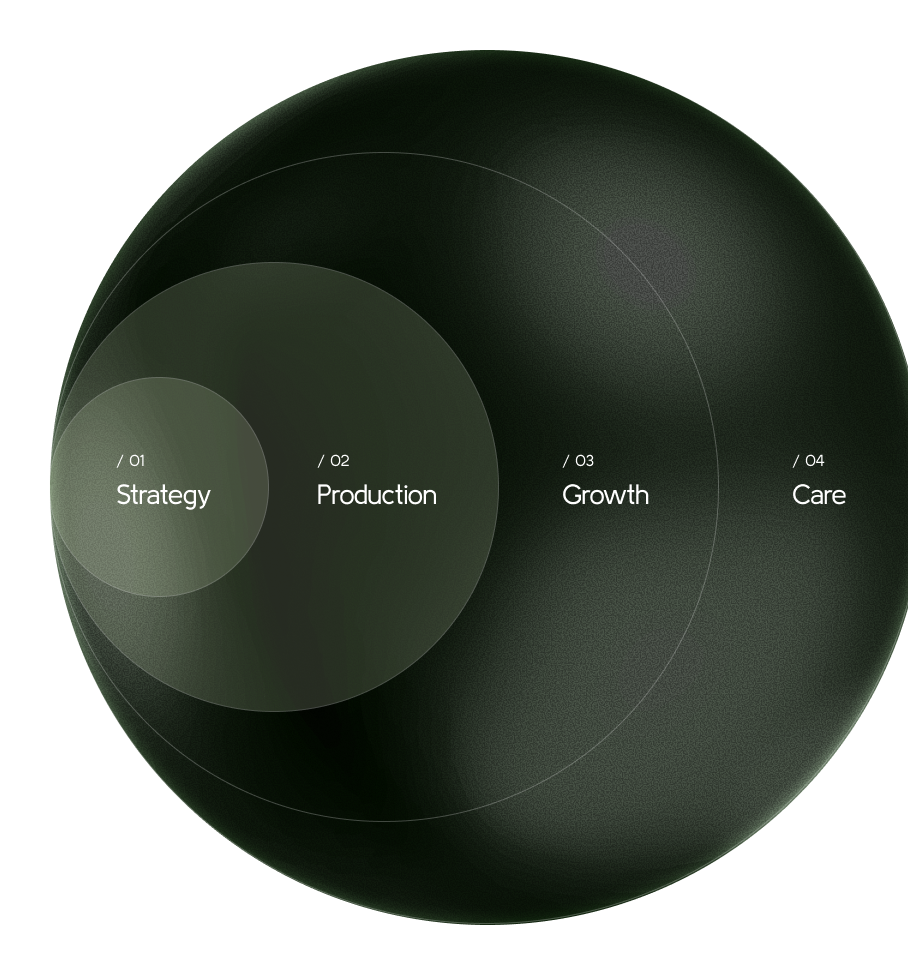
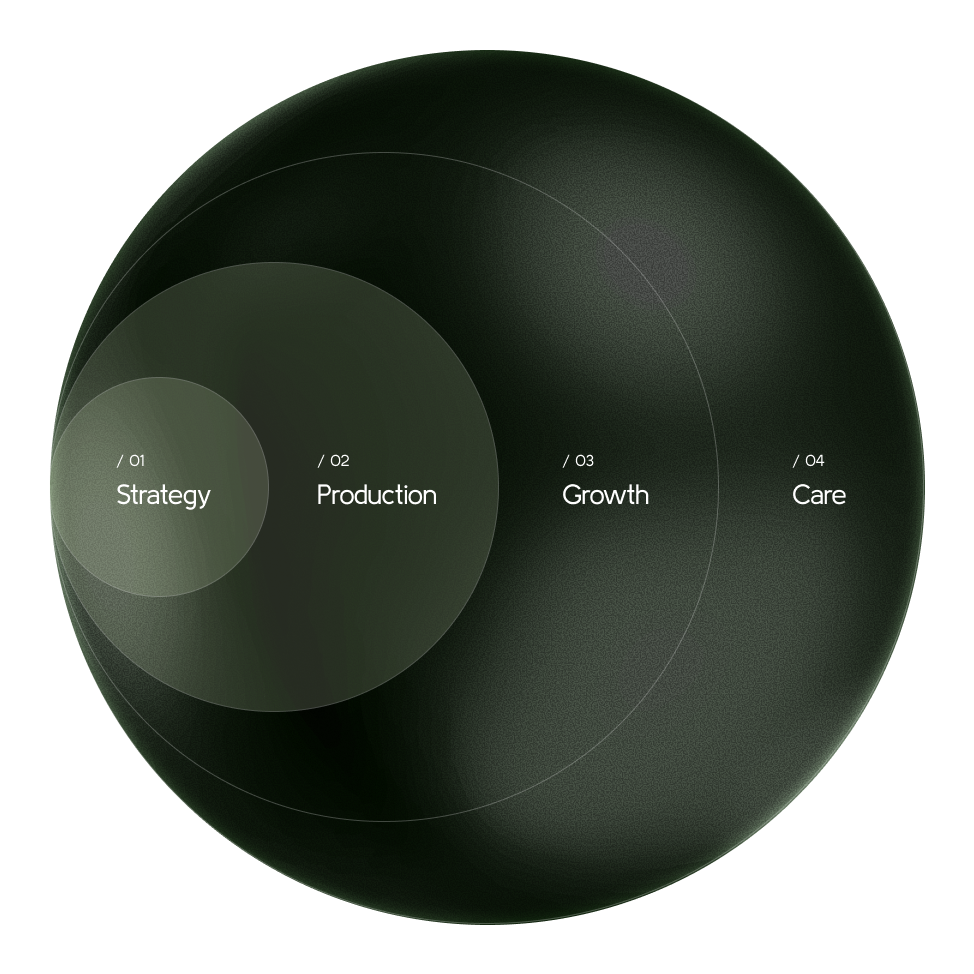
Fix SIRCLE Model 'hapje' + late load
Previous crop was 908px wide, but other phase crops are 974x974 — meaning the circle's right edge extends to 974. My 908 crop was cutting off 66px of the actual circle, which user correctly noticed as the 'hapje' on the right.

Fixes:
- Re-crop exactly at 974x974 (matches phase-specific images, full circle intact)
- Add WebP version: 72KB vs 960KB PNG (13x smaller)
- loading=eager + fetchpriority=high so it loads up-front, not lazy

diff --git a/diensten.html b/diensten.html
@@ -172,7 +172,7 @@
       <h2 class="section-title text-center scrub-highlight">HET SIRCLE MODEL</h2>
       <p class="section-subtitle reveal-up">Vier fases die samen een cyclus vormen. Elk merk begint ergens anders. Wij stappen in waar het nodig is.</p>
       <div class="model-interactive reveal-scale">
-        <img src="assets/sircle-model/cropped/Sircle-model-clean.png" alt="SIRCLE Model" class="model-image-large" loading="lazy">
+        <img src="assets/sircle-model/cropped/Sircle-model-clean.webp" alt="SIRCLE Model" class="model-image-large" loading="eager" fetchpriority="high">
         <div class="model-nav">
           <a href="#strategy" class="model-nav-item" data-phase="strategy">
             <span class="model-nav-num">/01</span>
